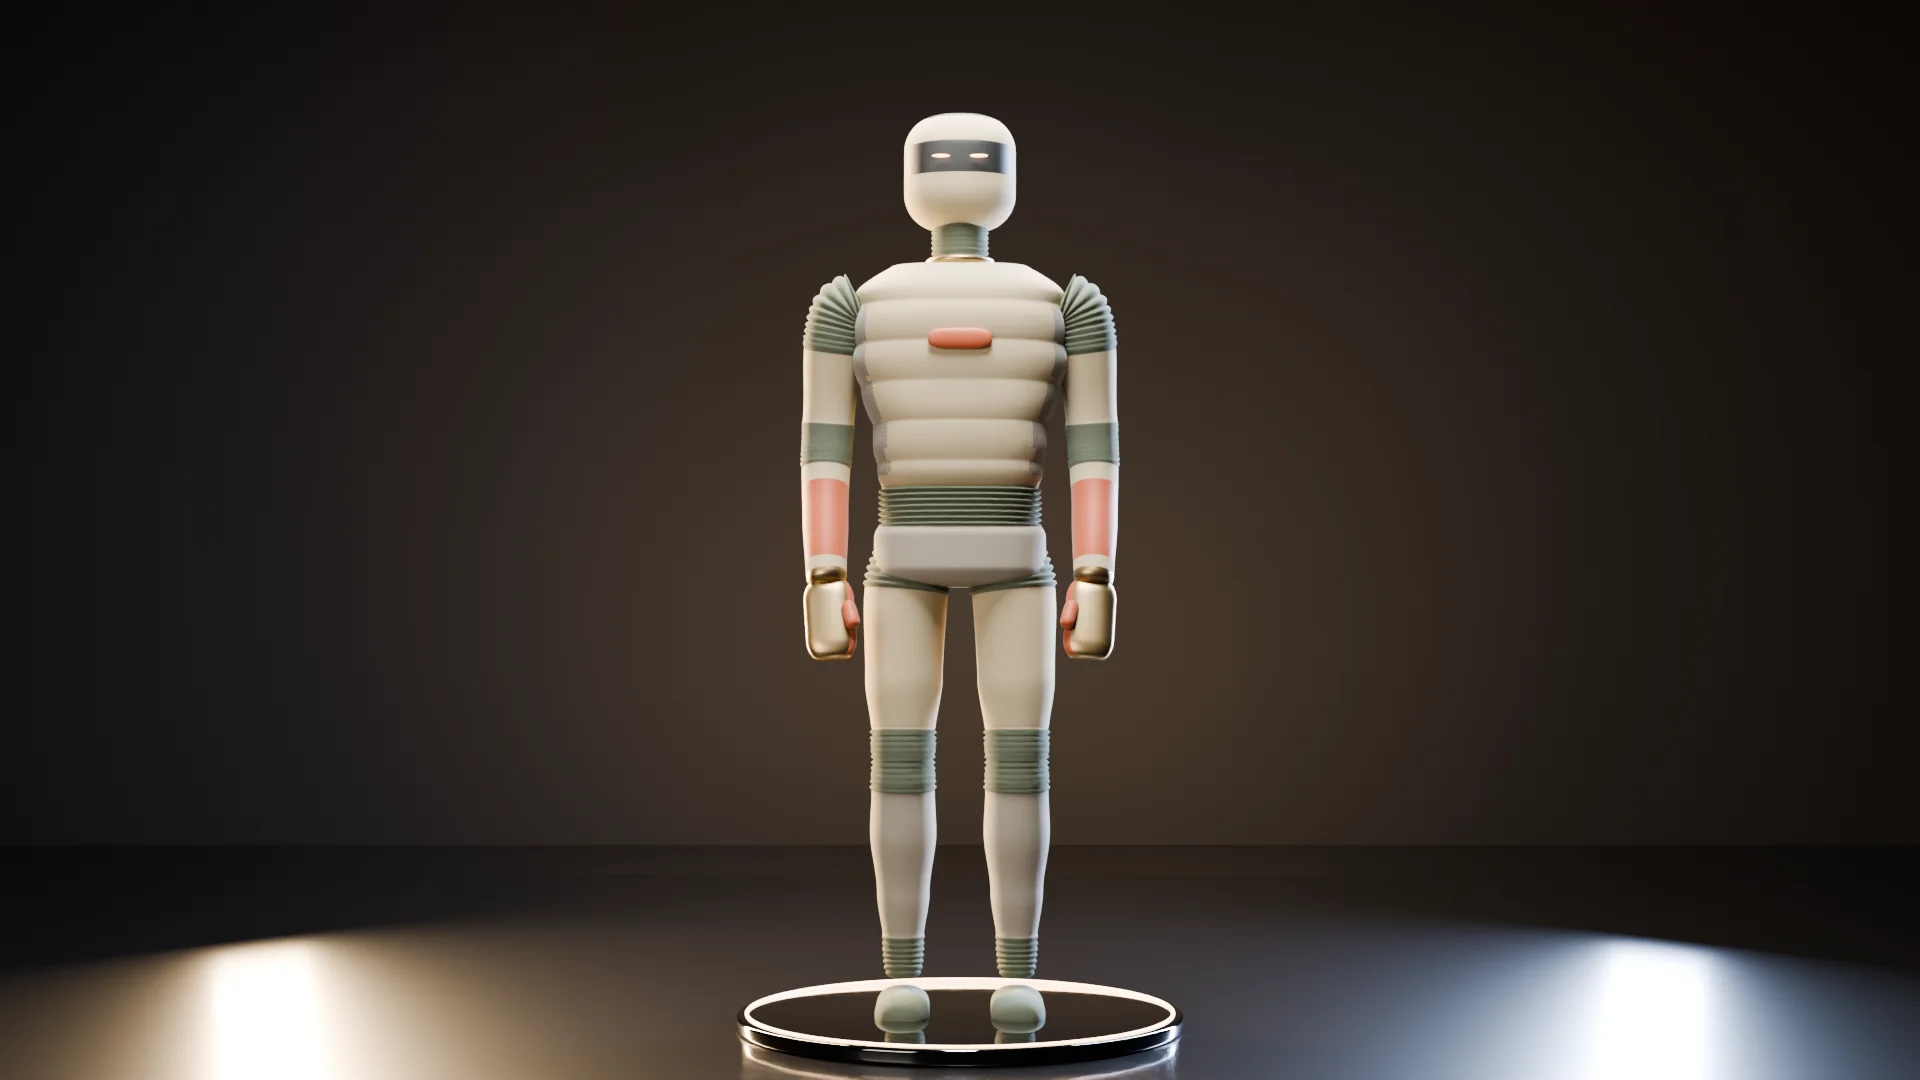
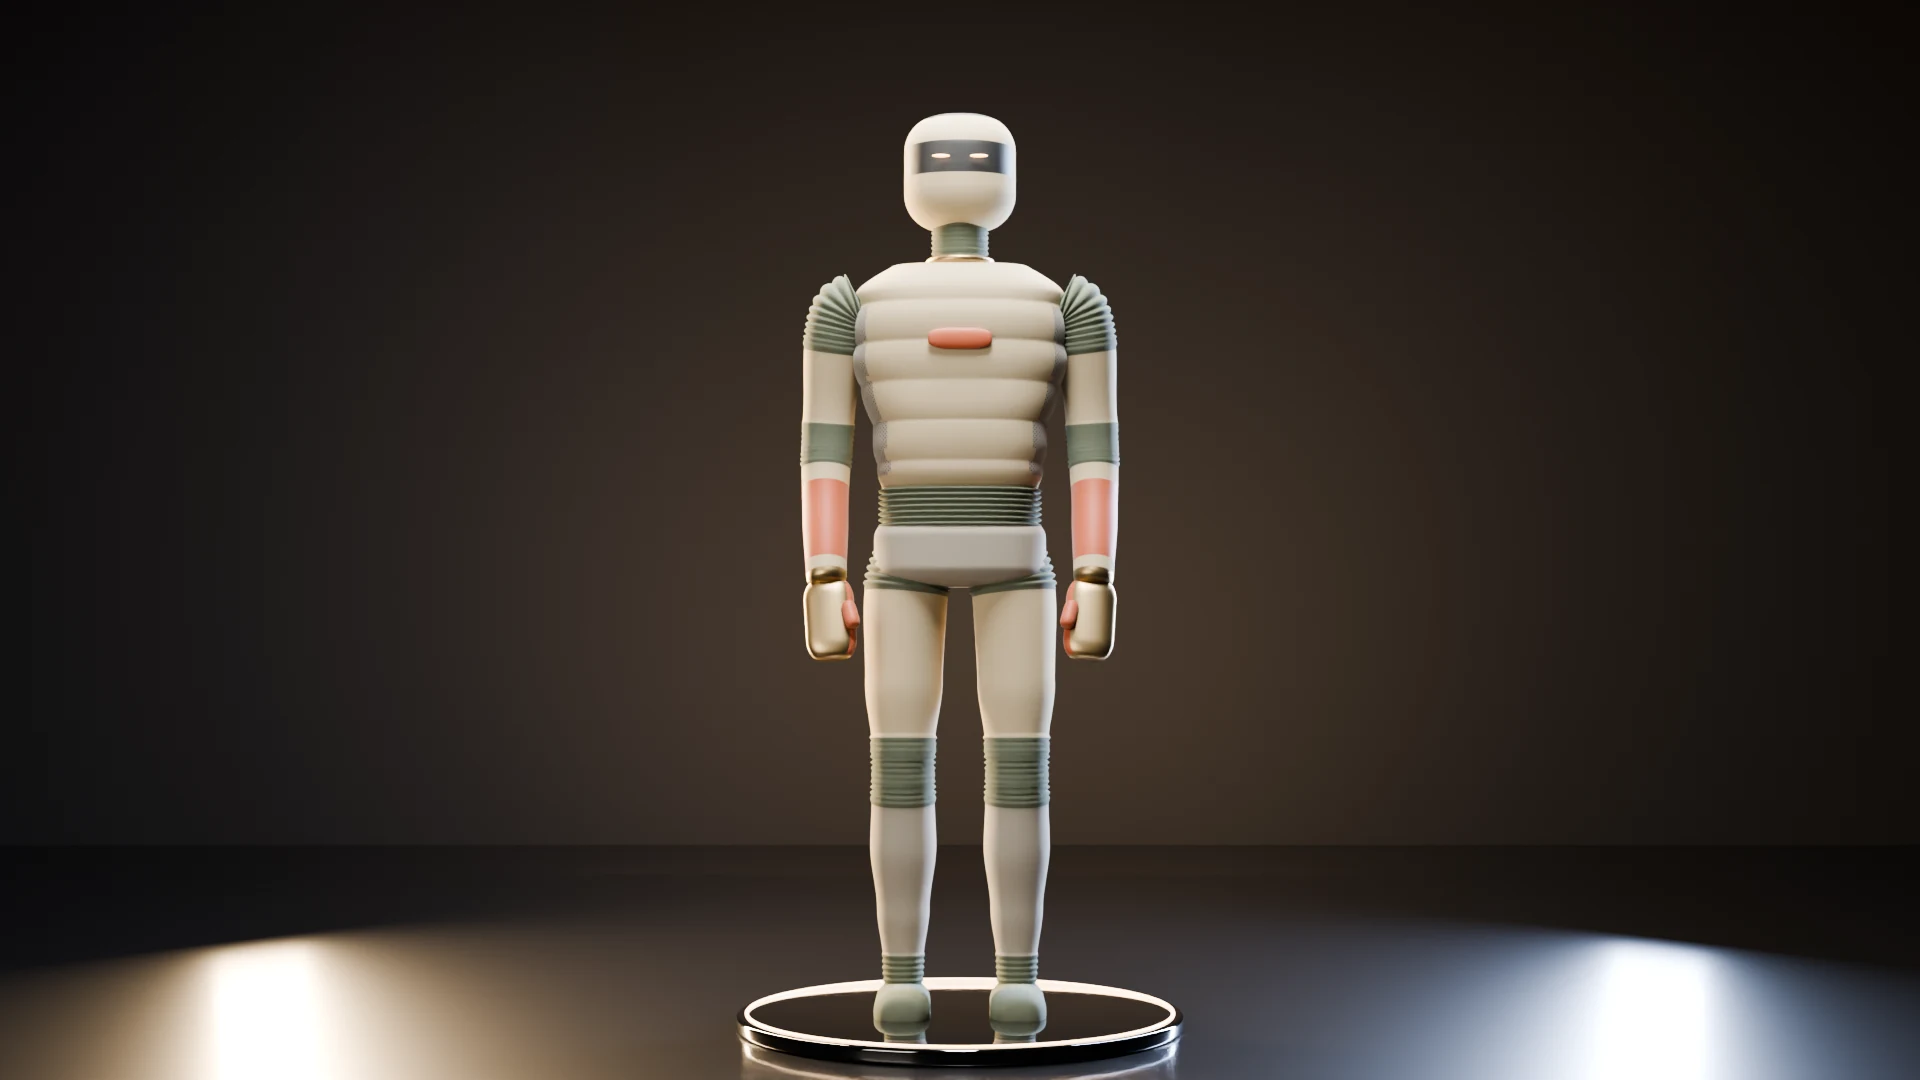
HESTIA launch set re-rendered with attached feet (reveal, trio, hero, living, back); colourways named HESTIA / TESTIA / KESTIA
Claude-Session: https://claude.ai/code/session_01TNyScxA4ueG31KUfSXNFLU

diff --git a/index.html b/index.html
@@ -23,6 +23,7 @@ table.tbl .mtr-lim i{background:#B8862E}table.tbl .mtr-ov i{background:repeating
 .hk-spec td:nth-child(4){white-space:nowrap}
 .tbl-key{margin-top:12px}.hm-key .k-tick{width:1px;height:12px;background:currentColor}
 @media (max-width:760px){.tbl-wrap table.tbl{min-width:760px}table.tbl{font-size:12.5px}table.tbl td,table.tbl tbody th,table.tbl thead th{padding-right:12px}}
+.hs-trio-img{position:relative}.hs-trio-img span{position:absolute;top:4%;transform:translateX(-50%);font:700 13px/1.2 var(--mono);letter-spacing:.1em;color:#FF5A1F;text-align:center;white-space:nowrap;pointer-events:none}.hs-trio-img span small{display:block;color:#F2EEE6;opacity:.7;font-weight:400;font-size:9.5px;margin-top:3px}@media (max-width:600px){.hs-trio-img span{font-size:8.5px}.hs-trio-img span small{display:none}}
 </style><title>Henry Ortega · CMF, Soft Goods &amp; Design Technology</title><meta name="description" content="Henry Ortega: CMF and soft goods for hardware, design technologist (Rhino, Grasshopper, Python, Blender) and technical program leader. 16 years at Nike, concept to factory, ending with Nike Tuned Air. Remote (US) or Portland, OR.">
 <meta property="og:type" content="website">
 <meta property="og:url" content="https://tigrestudiodesign.github.io/">
@@ -2290,7 +2291,7 @@ const HS={id:'hestia',title:'HESTIA',
   ['Kinematics','Sleeves move with every high-range joint (hip, knee, shoulder, elbow) and never bind, snag or pinch.'],
   ['Sensors','LiDAR and depth cameras stay clear, behind an open technical weave that light and sound pass through.']]
 };
-const CARD_HS={id:HS.id,isNew:true,kind:'CMF · Soft Goods · Robotics',title:'HESTIA',meta:'A home humanoid in a warm knit skin · launch set · 3 colourways',imgs:[['img/hs2__reveal.webp',1920,1080]]};
+const CARD_HS={id:HS.id,isNew:true,kind:'CMF · Soft Goods · Robotics',title:'HESTIA',meta:'A home humanoid in a warm knit skin · launch set · 3 colourways',imgs:[['img/hs2__reveal.webp?v=3',1920,1080]]};
 
 /* v57: HESTIA x Knit Nodes: two studies joined by one selection engine */
 const HKN={id:'hestia-knit-nodes',sel:[["Hip", 100, "flex", "rib1", null, "Densest closed knit under the 85 % line: 84 rounds per sleeve.", 4, 12], ["Knee", 95, "flex", "rib1", null, "Densest closed knit under the 85 % line: 84 rounds per sleeve.", 14, 13], ["Ankle", 52, "flex", "rib1", null, "Densest closed knit under the 85 % line: 84 rounds per sleeve.", 27, 8], ["Shoulder", 131, "flex", "rib1", "lace", "Pleat stack needs 45 mm but the inside of the bend has 12 mm: rib pleats outside, open lace gusset inside.", -33, 11], ["Elbow", 111, "flex", "rib1", "lace", "Pleat stack needs 38 mm but the inside of the bend has 30 mm: rib pleats outside, open lace gusset inside.", -8, 10], ["Waist twist", 40, "flex", "rib1", null, "Densest closed knit under the 85 % line: 84 rounds per sleeve.", null, null], ["Torso", 15, "cover", "stockinette", null, "Low strain: the smoothest face and lowest bulk win.", null, null], ["Shin", 10, "brace", "slip", null, "Wants the least stretch: floats lock the fabric so the shin cover holds its shape.", null, null], ["Flank vent", 15, "open", "lace", null, "Only the eyelet structure opens holes as it stretches: airflow through the knit.", null, null], ["Forearm grip", 20, "grip", "seed", null, "Pebbled all over and lies flat with no curl: a surface for silicone dots.", null, null], ["Sensor band", 5, "open-fine", "lace", null, "Lace at double gauge: light and sound pass, the sensor stays hidden.", null, null]],
@@ -2332,7 +2333,7 @@ function hknPage(){
  <section class="band light section"><div class="wrap"><h2 class="sh-title" style="font-size:32px">Two Studies, One System</h2><p class="sh-sub">What each one brought / What neither could answer alone</p>
   <div class="hk-two"><a class="hk-src" href="#knit-nodes"><img src="img/kn__01_hero.webp" alt="" loading="lazy" width="1800" height="1012"><small>STUDY 01 · KNIT NODES</small><h3>How far each knit can stretch</h3><p>Ten structures from one loop equation, scripted in Rhino with Python, each with a measured stretch, capacity and round count on a robotic X-joint.</p></a>
   <div class="hk-plus">+</div>
-  <a class="hk-src" href="#hestia"><img src="img/hs2__reveal.webp" alt="" loading="lazy" width="1920" height="1080"><small>STUDY 02 · HESTIA</small><h3>How far each joint pulls</h3><p>Flex demand, pleat count and pinch margin at hip, knee, ankle, shoulder and elbow, from the robot's joint radii and range of motion.</p></a></div>
+  <a class="hk-src" href="#hestia"><img src="img/hs2__reveal.webp?v=3" alt="" loading="lazy" width="1920" height="1080"><small>STUDY 02 · HESTIA</small><h3>How far each joint pulls</h3><p>Flex demand, pleat count and pinch margin at hip, knee, ankle, shoulder and elbow, from the robot's joint radii and range of motion.</p></a></div>
  </div></section>
 
  <section class="band dark section"><div class="wrap"><h2 class="sh-title" style="font-size:32px">The Pipeline</h2><p class="sh-sub">Four programs / Six steps / One data trail / No hand-copied numbers</p>
@@ -2369,13 +2370,13 @@ function hsPage(){
   <p class="note">Warehouse humanoids are built for logistics: hard shells, exposed actuators, matte black. HESTIA asks what the same class of bipedal robot needs to wear to live with a family, without blocking its airflow, its joints or its sensors.</p>
   <dl class="facts"><div><dt>Role</dt><dd>Concept, CMF, soft-goods engineering, 3D, rendering</dd></div><div><dt>Tools</dt><dd>Blender Cycles · Python · NumPy · Matplotlib</dd></div><div><dt>Direction</dt><dd>Warm Minimalist</dd></div><div><dt>Platform</dt><dd>Home humanoid, ~1.75 m (original design)</dd></div></dl></div></section>
 <div class="hk-ban"><div class="wrap"><a href="#hestia-knit-nodes"><b>THIS STUDY FEEDS HESTIA × KNIT NODES</b><span>Its joint demands meet the Knit Nodes behaviour model, and the engine picks a knit for every zone.</span><i>→</i></a></div></div>
- <div class="band dark" style="padding-bottom:56px"><div class="wrap"><div class="media tr-l">${im(['img/hs2__reveal.webp',1920,1080],'HESTIA on a black glass charging dock in a dark launch studio, warm and cool rim light, oatmeal knit skin, slate-moss rib joints, terracotta grip zones, black glass visor','heroimg')}</div></div></div>
+ <div class="band dark" style="padding-bottom:56px"><div class="wrap"><div class="media tr-l">${im(['img/hs2__reveal.webp?v=3',1920,1080],'HESTIA on a black glass charging dock in a dark launch studio, warm and cool rim light, oatmeal knit skin, slate-moss rib joints, terracotta grip zones, black glass visor','heroimg')}</div></div></div>
  <section class="band dark section" style="padding-top:0"><div class="wrap"><h2 class="sh-title" style="font-size:32px">The Launch Set</h2><p class="sh-sub">Visor / Grip / Three colourways</p>
-  <div class="hs-launch"><figure class="hs-l1">${im(['img/hs2__hero2.webp',1600,1000],'HESTIA three-quarter view on the dock')}<figcaption>Three-quarter: humanoid legs with a full thigh, defined knee and calf, every joint in slate-moss rib.</figcaption></figure>
-  <figure>${im(['img/hs2__face.webp',1400,1000],'Close-up of the black glass visor and warm light-strip eyes')}<figcaption>The face: a black glass visor over the sensors, two warm light strips for eyes. Cameras see out; people see someone looking back.</figcaption></figure>
-  <figure>${im(['img/hs2__grip.webp',1200,1000],'Forearm grip zone close-up')}<figcaption>Forearm: terracotta silicone-dot knit where you hold or guide, heathered oatmeal jersey, champagne anodised hand.</figcaption></figure></div>
-  <figure class="el-fig" style="margin-top:24px">${im(['img/hs2__trio.webp',1920,1000],'HESTIA in Sand, Warm and Graphite colourways on three docks')}<figcaption>Sand, Warm and Graphite: same patterns and the same shell, three covers for three kinds of home. Terracotta and champagne stay constant so every HESTIA is read the same way: hold here, lift here.</figcaption></figure>
-  <figure class="el-fig" style="margin-top:24px">${im(['img/hs2__living.webp',1600,1000],'HESTIA in a sunlit living room carrying folded towels')}<figcaption>At home: carrying folded towels past a bouclé sofa.</figcaption></figure>
+  <div class="hs-launch"><figure class="hs-l1">${im(['img/hs2__hero2.webp?v=3',1600,1000],'HESTIA three-quarter view on the dock')}<figcaption>Three-quarter: humanoid legs with a full thigh, defined knee and calf, every joint in slate-moss rib.</figcaption></figure>
+  <figure>${im(['img/hs2__face.webp?v=3',1400,1000],'Close-up of the black glass visor and warm light-strip eyes')}<figcaption>The face: a black glass visor over the sensors, two warm light strips for eyes. Cameras see out; people see someone looking back.</figcaption></figure>
+  <figure>${im(['img/hs2__grip.webp?v=3',1200,1000],'Forearm grip zone close-up')}<figcaption>Forearm: terracotta silicone-dot knit where you hold or guide, heathered oatmeal jersey, champagne anodised hand.</figcaption></figure></div>
+  <figure class="el-fig hs-trio" style="margin-top:24px"><div class="hs-trio-img">${im(['img/hs2__trio.webp?v=3',1920,1000],'HESTIA, TESTIA and KESTIA colourways on three docks: light, warm and graphite knit covers')}<span style="left:27.3%">01 · HESTIA<small>Light</small></span><span style="left:50%">02 · TESTIA<small>Warm</small></span><span style="left:72.6%">03 · KESTIA<small>Graphite</small></span></div><figcaption>HESTIA, TESTIA and KESTIA (colourway names by my daughter): same patterns and the same shell, three covers for three kinds of home. Terracotta and champagne stay constant so every HESTIA is read the same way: hold here, lift here.</figcaption></figure>
+  <figure class="el-fig" style="margin-top:24px">${im(['img/hs2__living.webp?v=3',1600,1000],'HESTIA in a sunlit living room carrying folded towels')}<figcaption>At home: carrying folded towels past a bouclé sofa.</figcaption></figure>
  </div></section>
 
  <section class="band light section"><div class="wrap"><h2 class="sh-title" style="font-size:32px">The Brief</h2><p class="sh-sub">Approachable / Durable / Three rules it cannot break</p>
@@ -2392,13 +2393,13 @@ function hsPage(){
  <section class="band light section"><div class="wrap"><h2 class="sh-title" style="font-size:32px">Zone Map</h2><p class="sh-sub">Eight zones / Each one earns its material</p>
   <div class="el-two"><figure class="el-fig">${im(I.zones,'Zone map of HESTIA with eight callouts: sensor weave, rib flex sleeves, terracotta grip, champagne hands, oatmeal knit, vent mesh, birch knit, slate-moss feet')}<figcaption>02 · Flat-colour zone render with callouts.</figcaption></figure>
   <div><p class="intro" style="margin-top:0">Every zone is a rule written into the model: the script assigns material by position and surface direction, so moving a vent or widening a grip changes the render, the zone map and the numbers together.</p>
-  <div class="hs-duo">${fig(['img/hs2__back.webp',1000,1250],'Back: the flank vents and a champagne carry handle that says where to lift.')}${fig(I.hand,'Hand and forearm: terracotta silicone-dot grip, perforated vent knit above the waist rib.')}</div></div></div>
+  <div class="hs-duo">${fig(['img/hs2__back.webp?v=3',1000,1250],'Back: the flank vents and a champagne carry handle that says where to lift.')}${fig(I.hand,'Hand and forearm: terracotta silicone-dot grip, perforated vent knit above the waist rib.')}</div></div></div>
  </div></section>
 
  <section class="band dark section"><div class="wrap"><h2 class="sh-title" style="font-size:32px">Flex Zones</h2><p class="sh-sub">Unfold first / Stretch second</p>
   <p class="intro">A knee bending 120° asks the outside of a sleeve for 142 mm more fabric. A flat knit would have to stretch 95 %; a rib sleeve with 6–7 mm pleats unfolds that length first and stays under a 30 % strain limit. The same check flagged the shoulder and elbow: the inside of the bend has no room for a pleat stack, so those get an open mesh gusset instead.</p>
   <div class="el-two" style="padding-top:24px"><figure class="el-fig">${im(I.flex,'Flex-zone sheet: rib pleat section, strain versus knee angle for flat and pleated sleeves, and a joint table with pinch margins')}<figcaption>03 · First-pass geometry from the model's joint radii. FEA and a 10,000-cycle stretch test come next.</figcaption></figure>
-  ${fig(['img/hs2__knee.webp',1000,1250],'Knee in slate-moss rib: the pleats are the stored length.','hs-tall')}</div>
+  ${fig(['img/hs2__knee.webp?v=3',1000,1250],'Knee in slate-moss rib: the pleats are the stored length.','hs-tall')}</div>
  </div></section>
 
  <section class="band light section"><div class="wrap"><h2 class="sh-title" style="font-size:32px">Heat + Sound</h2><p class="sh-sub">The skin insulates / So the vents do the work</p>
@@ -2412,7 +2413,7 @@ function hsPage(){
  </div></section>
 
  <section class="band light section"><div class="wrap"><p class="fine">Unofficial concept study by Tigre Studio. The robot is an original design with the proportions of a commercial bipedal humanoid; it is not affiliated with or endorsed by Agility Robotics or any other company.</p></div></section>
- <section class="statement">${im(['img/hs2__living.webp',1600,1000],'HESTIA at home')}<p>Built for the warehouse, <span class="it">dressed for the living room.</span></p></section>
+ <section class="statement">${im(['img/hs2__living.webp?v=3',1600,1000],'HESTIA at home')}<p>Built for the warehouse, <span class="it">dressed for the living room.</span></p></section>
  ${nextLink('product',{id:'hestia-knit-nodes',title:'HESTIA × Knit Nodes'})}</main>`+foot();
 }
 
